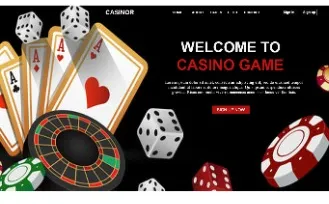
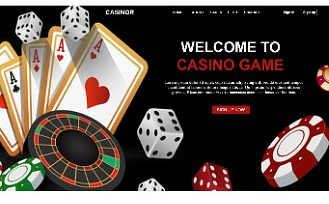
Update Website Templates layout to a single row grid and enhance image quality

diff --git a/src/components/Portfolio.jsx b/src/components/Portfolio.jsx
@@ -153,18 +153,21 @@ export default function Portfolio() {
           {/* Section: Website Templates */}
           <div className="portfolio-section scroll-mt-48" id="templates">
             <h3 className="text-headline-lg font-display-md text-white mb-6 px-2">Website Templates</h3>
-            <div className="glass rounded-[2.5rem] p-2 md:p-6 lg:p-8 project-card max-w-5xl mx-auto">
-              <div className="w-full bg-[#111111] rounded-t-2xl px-4 py-3 flex items-center gap-2 border-b border-white/10">
-                <div className="w-3 h-3 rounded-full bg-[#ff5f56]"></div>
-                <div className="w-3 h-3 rounded-full bg-[#ffbd2e]"></div>
-                <div className="w-3 h-3 rounded-full bg-[#27c93f]"></div>
+            <div className="grid grid-cols-2 md:grid-cols-3 lg:grid-cols-5 gap-4 md:gap-6">
+              <div className="glass rounded-3xl p-1 project-card overflow-hidden">
+                <img src="/template_part_1.webp" className="w-full h-auto rounded-[1.3rem] hover:scale-105 transition-transform duration-700" alt="Casino Template Header"/>
               </div>
-              <div className="bg-background w-full rounded-b-2xl overflow-hidden shadow-2xl">
-                <img src="/template_part_1.webp" className="w-full h-auto block" alt="Casino Template Header"/>
-                <img src="/template_part_2.webp" className="w-full h-auto block" alt="Casino Template Games"/>
-                <img src="/template_part_3.webp" className="w-full h-auto block" alt="Casino Template History"/>
-                <img src="/template_part_4.webp" className="w-full h-auto block" alt="Casino Template FAQ"/>
-                <img src="/template_part_5.webp" className="w-full h-auto block" alt="Casino Template Footer"/>
+              <div className="glass rounded-3xl p-1 project-card overflow-hidden">
+                <img src="/template_part_2.webp" className="w-full h-auto rounded-[1.3rem] hover:scale-105 transition-transform duration-700" alt="Casino Template Games"/>
+              </div>
+              <div className="glass rounded-3xl p-1 project-card overflow-hidden">
+                <img src="/template_part_3.webp" className="w-full h-auto rounded-[1.3rem] hover:scale-105 transition-transform duration-700" alt="Casino Template History"/>
+              </div>
+              <div className="glass rounded-3xl p-1 project-card overflow-hidden">
+                <img src="/template_part_4.webp" className="w-full h-auto rounded-[1.3rem] hover:scale-105 transition-transform duration-700" alt="Casino Template FAQ"/>
+              </div>
+              <div className="glass rounded-3xl p-1 project-card overflow-hidden">
+                <img src="/template_part_5.webp" className="w-full h-auto rounded-[1.3rem] hover:scale-105 transition-transform duration-700" alt="Casino Template Footer"/>
               </div>
             </div>
           </div>
